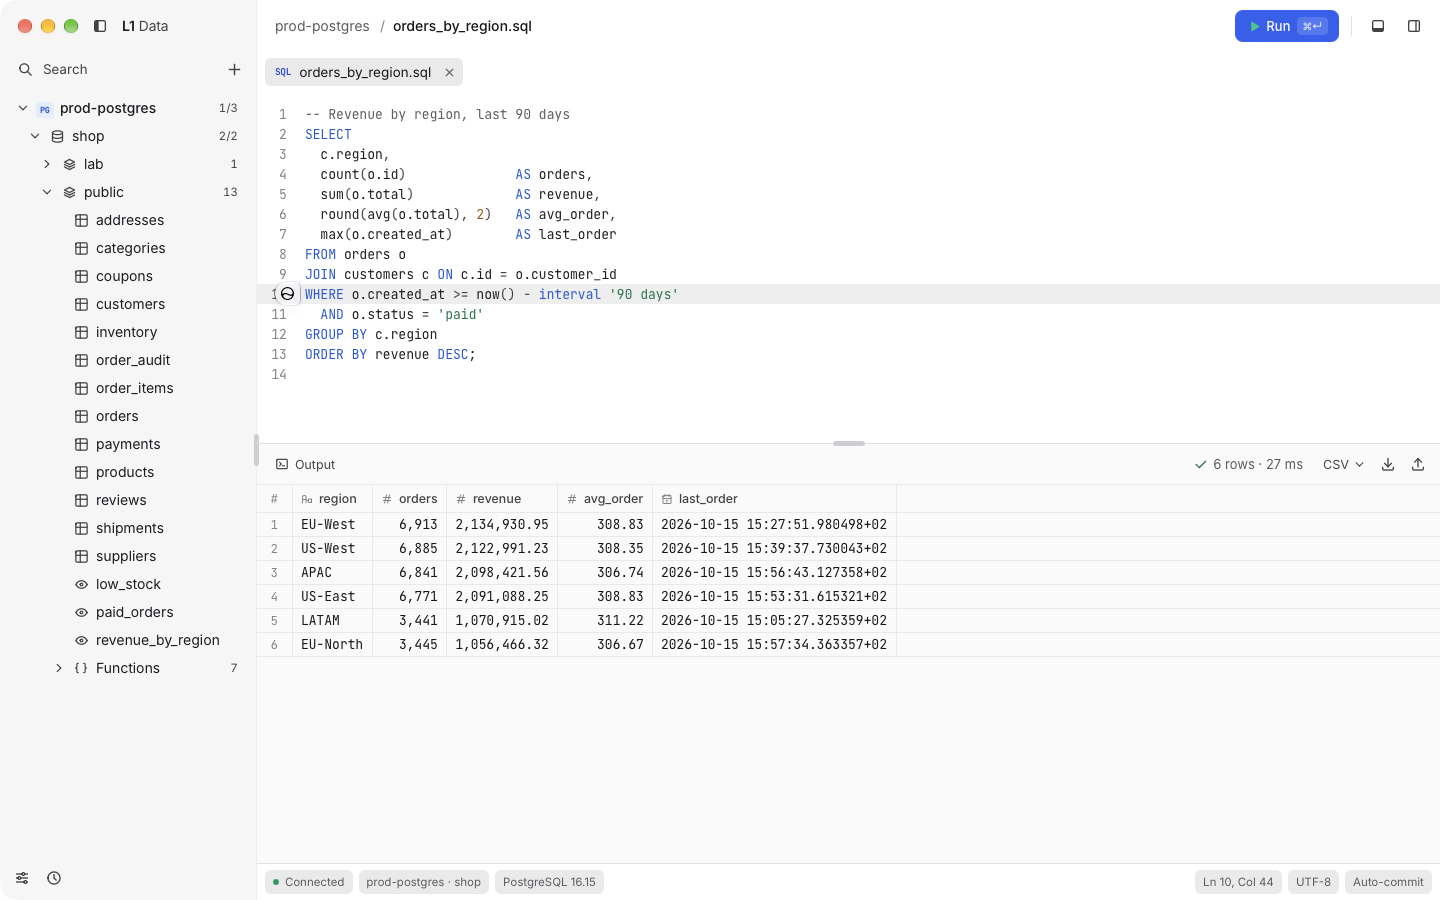
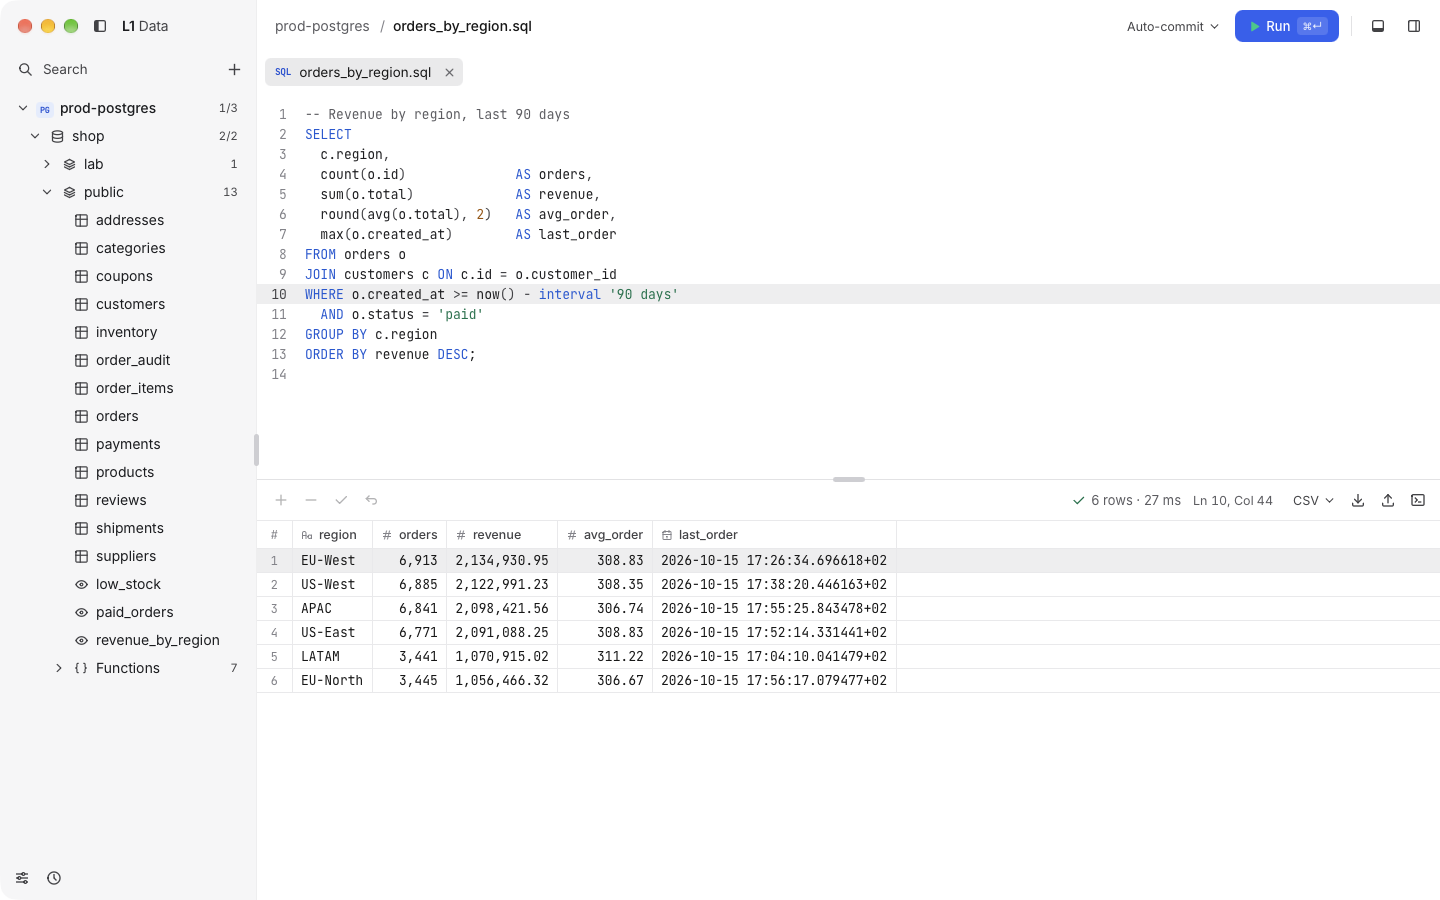
feat(ui): rework the results header and remove the status bar (#27)
* feat(ui): always show row edit buttons and move Output to an icon at the right

Add row, Delete rows, Submit, and Revert now stay in the results header on every tab and are disabled when the result is not an editable table. Output becomes an icon button after Import. Submit uses an important text color so its green shows over IconButton's muted color.

* docs(readme): regenerate the screenshot for the new results header

* feat(ui): remove the status bar and paint the results pane with the main background

The transaction-mode menu moves to the top bar and carries the lost-transaction notice. Ln/Col moves to the results header between the row summary and CSV. The connection, database, version, and UTF-8 chips are gone. The results palette token is deleted, so the results pane, grid, and output log paint the background token. Saved themes that still carry a results color load unchanged because unknown keys are filtered.

* docs(readme): regenerate the screenshot without the status bar

diff --git a/src/features/results/ResultsPane.tsx b/src/features/results/ResultsPane.tsx
@@ -133,6 +133,15 @@ function SummaryText({ summary }: { summary: Summary }) {
   );
 }
 
+function CursorPosition() {
+  const { line, col } = useWorkspace((s) => s.cursor);
+  return (
+    <span data-testid="cursor-position" className="text-ui-12.5 whitespace-nowrap text-dim tabular-nums">
+      Ln {line}, Col {col}
+    </span>
+  );
+}
+
 async function exportCsv(meta: ResultMeta) {
   const notify = useWorkspace.getState().notify;
   let path: string | null;
@@ -150,29 +159,30 @@ async function exportCsv(meta: ResultMeta) {
 
 function ErrorPanel({ error }: { error: QueryError }) {
   return (
-    <div className="selectable flex-1 overflow-auto bg-results px-5 py-4 text-ui-13 leading-6">
+    <div className="selectable flex-1 overflow-auto bg-bg px-5 py-4 text-ui-13 leading-6">
       <ErrorBlock error={error} />
     </div>
   );
 }
 
 function Empty({ children }: { children: React.ReactNode }) {
-  return <div className="grid flex-1 place-items-center bg-results text-ui-13 text-dim">{children}</div>;
+  return <div className="grid flex-1 place-items-center bg-bg text-ui-13 text-dim">{children}</div>;
 }
 
-function EditBar({ tabId, actions }: { tabId: TabId; actions: RefObject<GridActions | null> }) {
-  const edits = useTableEdits((s) => s.byTab[tabId] ?? NO_EDITS);
-  const pending = pendingCount(edits);
-  const busy = useTableEdits((s) => s.submitting[tabId] === true);
+function EditBar({ tabId, editable, actions }: { tabId: TabId | null; editable: boolean; actions: RefObject<GridActions | null> }) {
+  const edits = useTableEdits((s) => (tabId ? s.byTab[tabId] : undefined) ?? NO_EDITS);
+  const pending = editable ? pendingCount(edits) : 0;
+  const busy = useTableEdits((s) => (tabId ? s.submitting[tabId] === true : false));
   return (
     <div data-testid="edit-bar" className="flex items-center gap-0.5">
-      <IconButton data-testid="add-row" aria-label="Add row" title="Add row" onClick={() => actions.current?.addRow()}>
+      <IconButton data-testid="add-row" aria-label="Add row" title="Add row" disabled={!editable} onClick={() => actions.current?.addRow()}>
         <IconPlus size={16} />
       </IconButton>
       <IconButton
         data-testid="delete-rows"
         aria-label="Delete selected rows"
         title="Delete or restore the selected rows (⌘⌫)"
+        disabled={!editable}
         onClick={() => actions.current?.deleteSelectedRows()}
       >
         <IconMinus size={16} />
@@ -182,8 +192,8 @@ function EditBar({ tabId, actions }: { tabId: TabId; actions: RefObject<GridActi
         aria-label="Submit changes"
         title="Submit changes (⌘S)"
         disabled={pending === 0 || busy}
-        className={cx(pending > 0 && "text-green hover:text-green")}
-        onClick={() => void submitEdits(tabId)}
+        className={cx(pending > 0 && "text-green!")}
+        onClick={() => tabId && void submitEdits(tabId)}
       >
         <IconCheck size={16} />
       </IconButton>
@@ -192,7 +202,7 @@ function EditBar({ tabId, actions }: { tabId: TabId; actions: RefObject<GridActi
         aria-label="Revert changes"
         title="Revert changes"
         disabled={pending === 0 || busy}
-        onClick={() => useTableEdits.getState().clear(tabId)}
+        onClick={() => tabId && useTableEdits.getState().clear(tabId)}
       >
         <IconArrowBackUp size={16} />
       </IconButton>
@@ -316,9 +326,9 @@ export function ResultsPane({ tabId }: { tabId: TabId | null }) {
   const actions = useRef<GridActions | null>(null);
 
   return (
-    <section className="flex h-full min-h-0 flex-col border-b border-border bg-results">
+    <section className="flex h-full min-h-0 flex-col bg-bg">
       <div className="flex h-[41px] shrink-0 items-center gap-3 border-b border-grid pr-2 pl-2.5">
-        {editing && tabId && <EditBar tabId={tabId} actions={actions} />}
+        <EditBar tabId={tabId} editable={editing !== null && tabId !== null} actions={actions} />
         {results.length > 1 && (
           <div data-testid="result-selector" className="flex items-center gap-0.5 rounded-md border border-control p-0.5">
             {results.map((r, i) => (
@@ -338,30 +348,11 @@ export function ResultsPane({ tabId }: { tabId: TabId | null }) {
             ))}
           </div>
         )}
-        {output.length > 0 && tabId && (
-          <button
-            type="button"
-            data-testid="output-toggle"
-            data-tone={tone}
-            aria-pressed={view.kind === "output"}
-            onClick={() => {
-              const pick = view.kind === "output" ? (shown?.index ?? 0) : outputPick;
-              if (pick !== undefined) setActiveResult(tabId, pick);
-            }}
-            className={cx(
-              "inline-flex h-7 items-center gap-1.5 rounded-md px-2 text-ui-12.5 whitespace-nowrap outline-none",
-              view.kind === "output" ? "bg-pill" : "hover:bg-hover",
-              tone === "warn" ? "text-amber" : view.kind === "output" ? "text-fg" : "text-muted hover:text-fg",
-            )}
-          >
-            <IconTerminal2 size={14} />
-            Output
-          </button>
-        )}
 
         <div className="flex-1" />
 
         {summary && <SummaryText summary={summary} />}
+        {tab?.kind === "sql" && <CursorPosition />}
 
         <div className="flex items-center gap-0.5">
           <Menu.Root modal={false}>
@@ -398,6 +389,21 @@ export function ResultsPane({ tabId }: { tabId: TabId | null }) {
             onClick={() => useWorkspace.getState().notify("Import is coming soon.")}
           >
             <IconUpload size={16} />
+          </IconButton>
+          <IconButton
+            data-testid="output-toggle"
+            data-tone={tone}
+            aria-label="Output"
+            title="Output"
+            aria-pressed={view.kind === "output"}
+            disabled={output.length === 0 || !tabId}
+            onClick={() => {
+              const pick = view.kind === "output" ? (shown?.index ?? 0) : outputPick;
+              if (tabId && pick !== undefined) setActiveResult(tabId, pick);
+            }}
+            className={cx(view.kind === "output" && "bg-pill!", tone === "warn" ? "text-amber!" : view.kind === "output" && "text-fg!")}
+          >
+            <IconTerminal2 size={16} />
           </IconButton>
         </div>
       </div>

diff --git a/src/shell/TopBar.tsx b/src/shell/TopBar.tsx
@@ -1,13 +1,16 @@
 import * as Menu from "@radix-ui/react-dropdown-menu";
-import { IconPlayerPlayFilled, IconPlayerStopFilled } from "@tabler/icons-react";
-import { cancelActive, endTransaction, runActive, setTabTarget } from "../features/editor/runActions";
+import { IconChevronDown, IconPlayerPlayFilled, IconPlayerStopFilled } from "@tabler/icons-react";
+import { cancelActive, endTransaction, runActive, setTabMode, setTabTarget } from "../features/editor/runActions";
+import type { TxnMode } from "../ipc/bindings";
 import { homeDb } from "../state/dbKey";
 import { useLive } from "../state/live";
-import { connectionStatus, hasUncommittedWork, isRunning } from "../state/status";
+import { connectionTone, hasUncommittedWork, isRunning } from "../state/status";
 import { tabLabel, tabTarget, useWorkspace } from "../state/workspace";
 import { Button, Kbd, MenuContent, MenuItem, MenuLabel, StatusDot, cx } from "../ui/primitives";
 import { SidebarToggle, WindowEdgeActions, windowEdgeInset, windowLeadingInset } from "./WindowEdgeActions";
 import type { HostedWindow } from "./hostedWindow";
+
+const MODE_LABEL: Record<TxnMode, string> = { AutoCommit: "Auto-commit", Manual: "Manual" };
 
 export function TopBar({ hosted }: { hosted: HostedWindow | null }) {
   const tab = useWorkspace((s) => (s.active ? s.tabs[s.active] : undefined));
@@ -19,6 +22,8 @@ export function TopBar({ hosted }: { hosted: HostedWindow | null }) {
   const config = connectionId ? configs[connectionId] : undefined;
   const running = isRunning(liveConsole);
   const sql = tab?.kind === "sql" ? tab : undefined;
+  const txn = liveConsole?.txn;
+  const txnLost = liveConsole?.session.kind === "Lost" && liveConsole.session.txnLost;
 
   return (
     <header
@@ -40,7 +45,7 @@ export function TopBar({ hosted }: { hosted: HostedWindow | null }) {
               <MenuLabel>Connection for this tab</MenuLabel>
               {Object.values(configs).map((c) => (
                 <MenuItem key={c.id} checked={c.id === connectionId} onSelect={() => void setTabTarget(sql.id, homeDb(c))}>
-                  <StatusDot tone={connectionStatus(connections[c.id]).tone} />
+                  <StatusDot tone={connectionTone(connections[c.id])} />
                   {c.name}
                 </MenuItem>
               ))}
@@ -57,6 +62,29 @@ export function TopBar({ hosted }: { hosted: HostedWindow | null }) {
         )}
       </div>
 
+      {sql && (
+        <Menu.Root modal={false}>
+          <Menu.Trigger
+            data-testid="tx-mode"
+            title={txnLost ? "Transaction rolled back: connection lost" : undefined}
+            className="inline-flex h-7 items-center gap-1 rounded-md pr-1.5 pl-2 text-ui-12.5 text-muted outline-none hover:bg-hover hover:text-fg data-[state=open]:bg-hover data-[state=open]:text-fg"
+          >
+            {MODE_LABEL[sql.console.mode]}
+            {sql.console.mode === "Manual" && txn && txn !== "Idle" && (
+              <span className={txn === "Aborted" ? "text-danger" : "text-fg"}> · {txn === "Aborted" ? "aborted" : "in transaction"}</span>
+            )}
+            {txnLost && <span className="text-danger"> · rolled back</span>}
+            <IconChevronDown size={13} />
+          </Menu.Trigger>
+          <MenuContent align="end">
+            {(["AutoCommit", "Manual"] as const).map((m) => (
+              <MenuItem key={m} testId={`tx-mode-${m}`} checked={m === sql.console.mode} onSelect={() => void setTabMode(sql.id, m)}>
+                {MODE_LABEL[m]}
+              </MenuItem>
+            ))}
+          </MenuContent>
+        </Menu.Root>
+      )}
 
       {sql && hasUncommittedWork(liveConsole) && (
         <>

diff --git a/src/features/sidebar/ConnectionTree.tsx b/src/features/sidebar/ConnectionTree.tsx
@@ -40,7 +40,7 @@ import { connectErrorText } from "../../ipc/errors";
 import { dbKey, sameDb } from "../../state/dbKey";
 import { instanceOf, useLive } from "../../state/live";
 import { detailKey, useRelationDetail } from "../../state/relationDetail";
-import { connectionStatus, type Tone } from "../../state/status";
+import { connectionTone, type Tone } from "../../state/status";
 import { useWorkspace } from "../../state/workspace";
 import {
   ContextMenuArea,
@@ -641,7 +641,7 @@ function ConnectionTrailing({
 function ConnectionNode({ config, expanded }: { config: ConnectionConfig; expanded: Expanded }) {
   const state = useLive((s) => s.connections[config.id]);
   const instance = instanceOf(state);
-  const status = connectionStatus(state);
+  const tone = connectionTone(state);
   const path = config.name;
   const open = expanded.has(path);
   const connected = instance !== null;
@@ -688,12 +688,12 @@ function ConnectionNode({ config, expanded }: { config: ConnectionConfig; expand
         active={picking}
         onClick={onClick}
         icon={
-          <span className={cx(status.tone === "off" && "opacity-50 grayscale")}>
+          <span className={cx(tone === "off" && "opacity-50 grayscale")}>
             <PgBadge />
           </span>
         }
-        label={<span className={cx("font-medium", status.tone === "off" && "text-muted")}>{config.name}</span>}
-        trailing={<ConnectionTrailing config={config} tone={status.tone} instance={instance} target={target} active={picking} />}
+        label={<span className={cx("font-medium", tone === "off" && "text-muted")}>{config.name}</span>}
+        trailing={<ConnectionTrailing config={config} tone={tone} instance={instance} target={target} active={picking} />}
         contextMenu={<ConnectionMenu config={config} shown={instance && shown.map((d) => ({ connectionId: config.id, database: d.name }))} />}
       />
       {failure && (

diff --git a/src/shell/theme.test.ts b/src/shell/theme.test.ts
@@ -69,7 +69,7 @@ it("paints a theme's palette inline and clears it when the pick returns to L1", 
 
   setSettings({ darkTheme: "grove-dark" });
   expect([root.dataset.theme, bg(), root.style.vars.get("--color-run")]).toEqual(["dark", "#0c1310", "#2f9e6e"]);
-  expect(root.style.vars.size).toBe(42);
+  expect(root.style.vars.size).toBe(41);
 
   setSettings({ darkTheme: "l1-dark" });
   expect(root.dataset.theme).toBe("dark");
@@ -98,7 +98,7 @@ it("paints a saved custom theme with its stored colours over the derived ones, i
         id: "custom-1",
         name: "Dusk",
         variants: [
-          { id: "custom-1-0", name: "Dusk", appearance: "dark", colors: { background: "#202020", accent: "#ff0000", keyword: "#123456", bogus: "#ffffff", muted: "red" } },
+          { id: "custom-1-0", name: "Dusk", appearance: "dark", colors: { background: "#202020", accent: "#ff0000", keyword: "#123456", results: "#0d0d0d", bogus: "#ffffff", muted: "red" } },
         ],
       },
     ],
@@ -108,7 +108,7 @@ it("paints a saved custom theme with its stored colours over the derived ones, i
   expect([bg(), root.style.vars.get("--color-run"), root.style.vars.get("--color-keyword")]).toEqual(["#202020", "#ff0000", "#123456"]);
   expect(root.style.vars.get("--color-muted")).toMatch(/^#[0-9a-f]{6}$/);
   expect([...root.style.vars.keys()].every((k) => k.startsWith("--"))).toBe(true);
-  expect(root.style.vars.size).toBe(42);
+  expect(root.style.vars.size).toBe(41);
 });
 
 it("paints a previewed theme over the saved one and restores the saved one when the preview ends", () => {

diff --git a/src/features/results/ResultGrid.tsx b/src/features/results/ResultGrid.tsx
@@ -490,12 +490,12 @@ export function ResultGrid({
       onContextMenu={(e) => {
         if (!(e.target as Element).closest("[data-testid^='grid-cell-']")) e.preventDefault();
       }}
-      className="relative min-h-0 flex-1 overflow-auto bg-results outline-none"
+      className="relative min-h-0 flex-1 overflow-auto bg-bg outline-none"
     >
       <div style={{ width: totalWidth, height: rows.getTotalSize(), position: "relative" }}>
-        <div className="sticky top-0 z-20 border-b border-grid bg-results" style={{ height: headerH, width: totalWidth }}>
+        <div className="sticky top-0 z-20 border-b border-grid bg-bg" style={{ height: headerH, width: totalWidth }}>
           <div
-            className="sticky left-0 z-10 flex h-full items-center justify-center border-r border-grid bg-results font-mono text-code-sm text-faint"
+            className="sticky left-0 z-10 flex h-full items-center justify-center border-r border-grid bg-bg font-mono text-code-sm text-faint"
             style={{ width: rowNumW }}
           >
             #
@@ -590,7 +590,7 @@ export function ResultGrid({
                     ? "bg-cell-select text-fg"
                     : focus?.row === vr.index
                       ? "bg-hover text-fg"
-                      : "bg-results text-faint group-hover:bg-hover",
+                      : "bg-bg text-faint group-hover:bg-hover",
                 )}
                 style={{ width: rowNumW }}
               >

diff --git a/src/state/status.ts b/src/state/status.ts
@@ -11,19 +11,18 @@ export function isRunning(console: ConsoleState | undefined): boolean {
 
 export type Tone = "live" | "pending" | "off" | "error";
 
-export function connectionStatus(state: ConnectionState | undefined): { tone: Tone; label: string; version: string | null } {
+export function connectionTone(state: ConnectionState | undefined): Tone {
   const status = state?.status ?? { kind: "Disconnected" as const };
   switch (status.kind) {
     case "Connected":
-      return { tone: "live", label: "Connected", version: status.server.version };
+      return "live";
     case "Connecting":
-      return { tone: "pending", label: "Connecting…", version: null };
+      return "pending";
     case "Disconnected":
-      return { tone: "off", label: "Disconnected", version: null };
+      return "off";
     case "Failed":
-      return { tone: "error", label: "Connection failed", version: null };
     case "Lost":
-      return { tone: "error", label: "Connection lost", version: null };
+      return "error";
     default: {
       const unreachable: never = status;
       return unreachable;

diff --git a/src/themes/palette.ts b/src/themes/palette.ts
@@ -4,7 +4,6 @@ import { contrast, formatHex, mix, parseHex, type Rgba } from "./color";
 export const TOKENS = {
   background: "--color-bg",
   sidebar: "--color-sidebar",
-  results: "--color-results",
   raised: "--color-raised",
   hover: "--color-hover",
   selected: "--color-selected",
@@ -90,7 +89,6 @@ const RECIPES: Record<Appearance, Record<Token, Recipe>> = {
     accent: seed("accent"),
     foreground: seed("foreground"),
     sidebar: shade(0.3),
-    results: ink(0.018),
     raised: ink(0.04),
     hover: ink(0.058),
     selected: ink(0.093),
@@ -134,7 +132,6 @@ const RECIPES: Record<Appearance, Record<Token, Recipe>> = {
     accent: seed("accent"),
     foreground: seed("foreground"),
     sidebar: ink(0.027),
-    results: ink(0.015),
     raised: ink(0),
     hover: ink(0.055),
     selected: ink(0.083),

diff --git a/src/features/settings/AppearanceControls.tsx b/src/features/settings/AppearanceControls.tsx
@@ -127,7 +127,7 @@ function CodeSample({ font, density }: { font: FontSetting; density: Density }) 
         {kw("from")} orders {kw("where")} status &lt;&gt; <span className="text-green">'refunded'</span>{"\n"}
         {kw("order by")} total {kw("desc")} {kw("limit")} <span className="text-amber">3</span>;
       </pre>
-      <table className="w-full border-t border-grid bg-results tabular-nums" style={{ lineHeight: 1 }}>
+      <table className="w-full border-t border-grid bg-bg tabular-nums" style={{ lineHeight: 1 }}>
         <thead>
           <tr style={{ height: rowH }} className="border-b border-grid font-sans text-ui-12.5 text-muted">
             {SAMPLE_COLUMNS.map((c, i) => (

diff --git a/src/shell/AppLayout.tsx b/src/shell/AppLayout.tsx
@@ -15,7 +15,6 @@ import { Overlays } from "./Overlays";
 import { PixelColumn } from "./PixelColumn";
 import { ResizeHandle } from "./ResizeHandle";
 import { RightPanel } from "./RightPanel";
-import { StatusBar } from "./StatusBar";
 import { TabBar } from "./TabBar";
 import { ResizeEdges } from "./WindowChrome";
 import { hostedWindow, type HostedWindow } from "./hostedWindow";
@@ -107,7 +106,6 @@ function screenPanels(screen: Screen, hosted: HostedWindow | null): ScreenPanels
             <TopBar hosted={hosted} />
             <TabBar />
             <MainArea />
-            <StatusBar />
           </>
         ),
         right: true,

diff --git a/src/state/workspace.ts b/src/state/workspace.ts
@@ -143,11 +143,6 @@ export function tabTarget(tab: Tab | undefined): DatabaseRef | null {
   return tab.kind === "sql" ? tab.console.db : tab.db;
 }
 
-/** `prod-postgres · shop`, for the status bar. */
-export function targetLabel(ref: DatabaseRef, configs: Record<ConnectionId, ConnectionConfig>): string {
-  return `${configs[ref.connectionId]?.name ?? "Unknown connection"} · ${ref.database}`;
-}
-
 type WorkspaceActions = {
   restore(w: Workspace, connections: ConnectionConfig[], settings: Settings): void;
   addTab(tab: Tab): void;

diff --git a/src/themes/importers.ts b/src/themes/importers.ts
@@ -87,7 +87,6 @@ const VS_CODE_SOURCES: Partial<Record<Token, Source>> = {
   background: { keys: ["editor.background"] },
   foreground: { keys: ["editor.foreground", "foreground"] },
   sidebar: { keys: ["sideBar.background", "activityBar.background"] },
-  results: { keys: ["panel.background"] },
   raised: { keys: ["editorWidget.background", "dropdown.background", "menu.background"] },
   hover: { keys: ["list.hoverBackground"] },
   selected: { keys: ["list.activeSelectionBackground", "list.inactiveSelectionBackground"] },

diff --git a/src/features/results/OutputPanel.tsx b/src/features/results/OutputPanel.tsx
@@ -99,7 +99,7 @@ export function OutputPanel({ entries }: { entries: readonly OutputEntry[] }) {
     <div
       ref={ref}
       data-testid="output-panel"
-      className="selectable min-h-0 flex-1 overflow-auto bg-results py-3 font-mono text-ui-12.5 leading-5"
+      className="selectable min-h-0 flex-1 overflow-auto bg-bg py-3 font-mono text-ui-12.5 leading-5"
       onScroll={(e) => {
         const el = e.currentTarget;
         atBottom.current = el.scrollHeight - el.scrollTop - el.clientHeight < 4;
